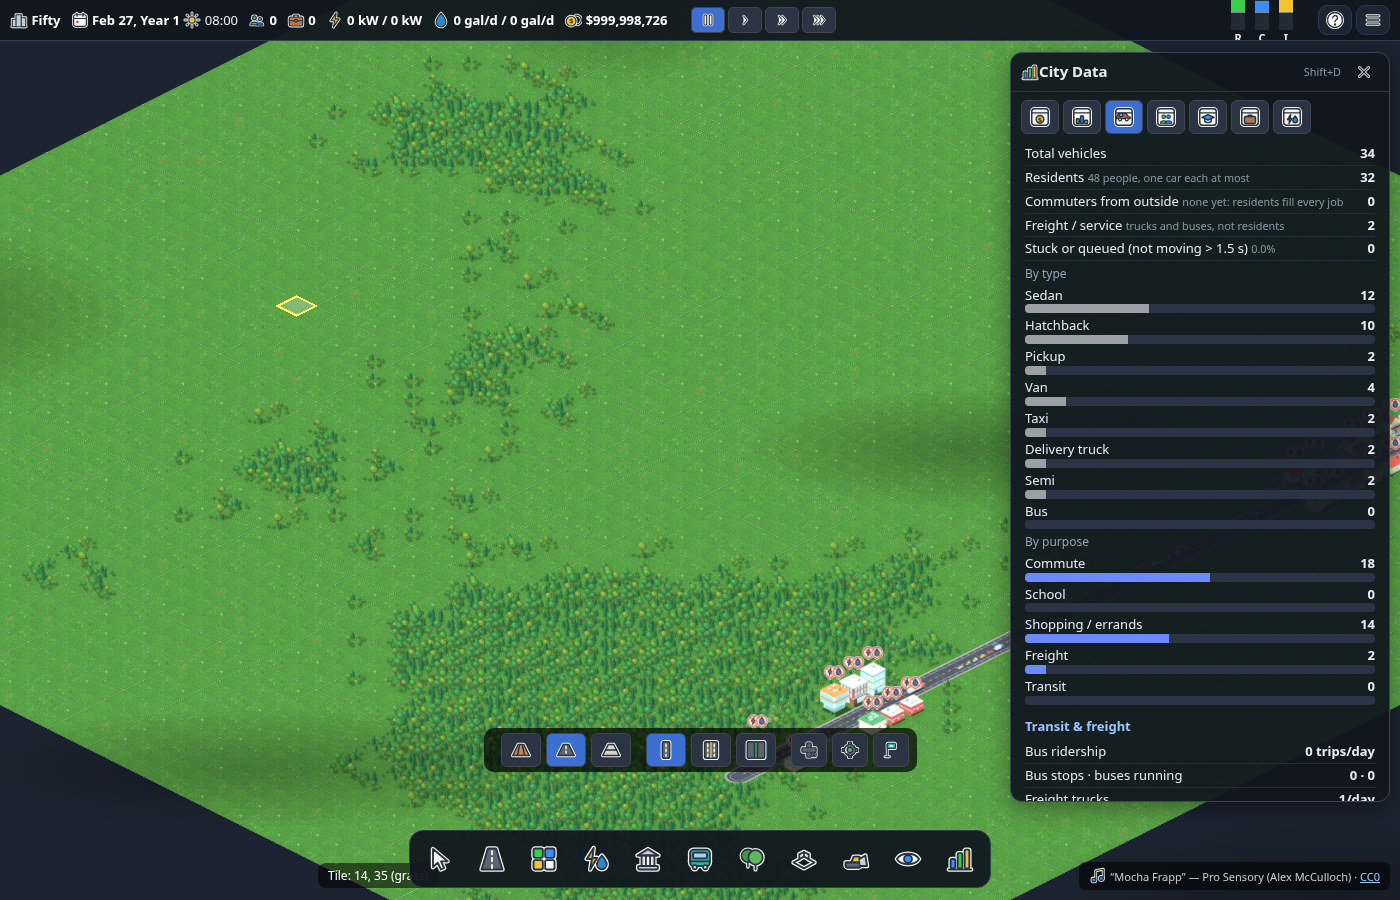
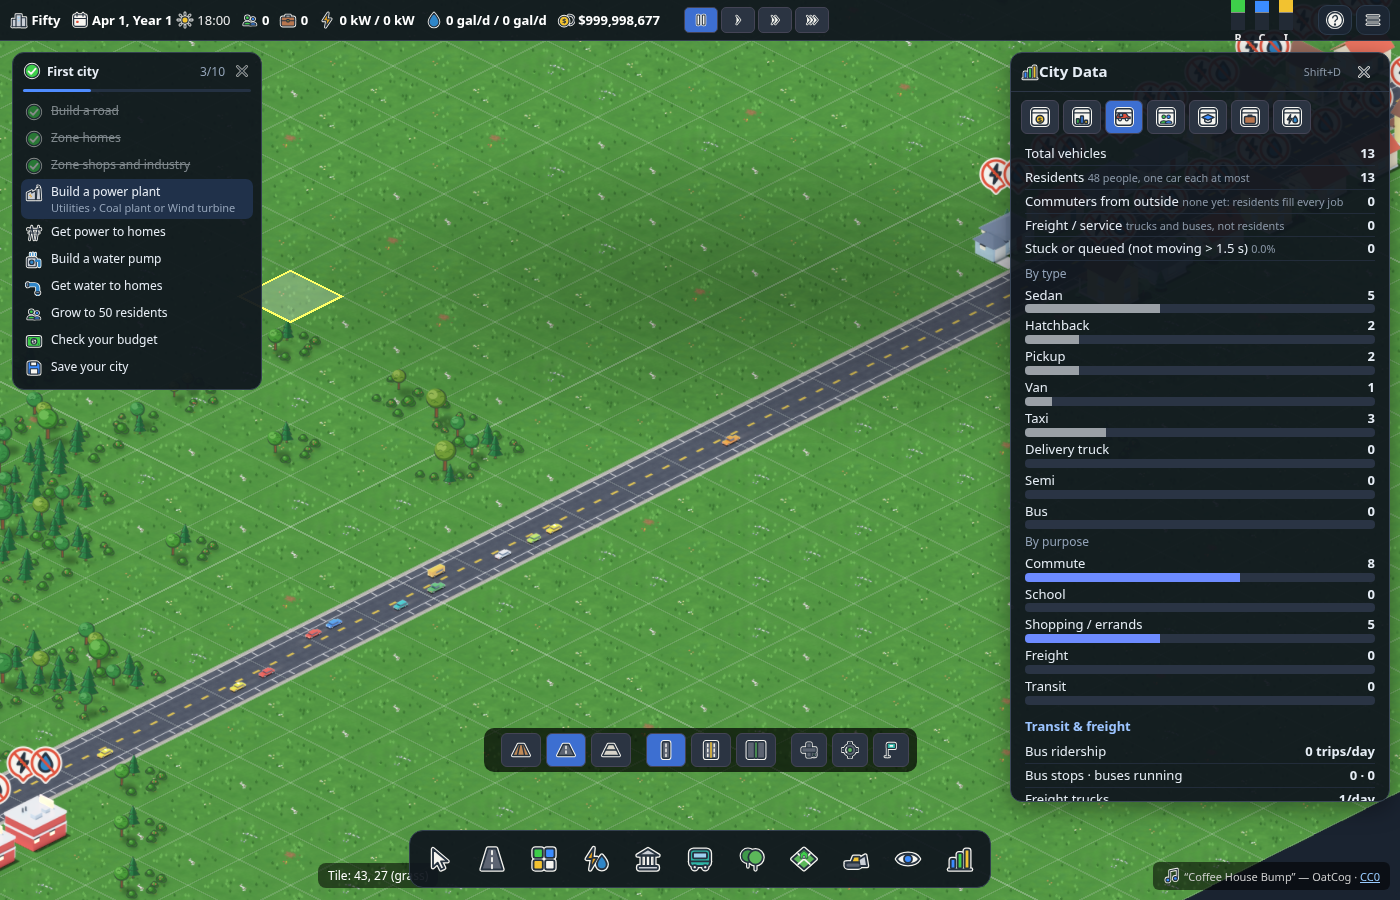
Longer day (15 game min per real second at 1x); traffic moves on the game clock

diff --git a/src/main.ts b/src/main.ts
@@ -333,7 +333,7 @@ function diamond(g: Graphics, i: number, j: number) {
     const st = ap.filter(x => axisOf(x[2]) === o.axis).map(x => x[2]);
     return { k: o.mode === 'yield' ? 'Y' : 'S', stops: st.length ? st : [ap.find(([a, b]) => !link(i, j, -a, -b))?.[2] ?? ap[0][2]], ...base }; };
   /** light colour for an approach axis; cyc game seconds play at 1/3 speed (45 s = the old 15 s loop); 1.5 s amber each way */
-  const lightState = (axis: number, ph: number, cyc = 45, g0 = 0.5) => { const T = cyc / 3, t = (clock + ph) % T, s0 = g0 * T, Y = 1.5;
+  const lightState = (axis: number, ph: number, cyc = 45, g0 = 0.5) => { const T = cyc / 3, t = (tclock + ph) % T, s0 = g0 * T, Y = 1.5;
     if (axis === 0) return t < s0 - Y ? 'green' : t < s0 ? 'yellow' : 'red'; return t < s0 ? 'red' : t < T - Y ? 'green' : 'yellow'; };
   const axisOf = (dir: string) => dir === 'SE' || dir === 'NW' ? 0 : 1;
   /** may a car arriving from `din` enter? stop: full stop (0.8 s) first; yield: only stops if there's cross traffic; uncontrolled: always (the junction reservation still prevents crashes) */
@@ -767,7 +767,7 @@ function diamond(g: Graphics, i: number, j: number) {
     syncLots(); drag = null; preview.clear(); census(); updateStats();
   };
   const tileAt = (sx: number, sy: number) => toTile((sx - world.position.x) / zoom, (sy - world.position.y) / zoom);
-  (window as any).__city = { pathOf: (f: any) => trips.pathOf(f), gfx: () => ({ res: app.renderer.resolution, cw: app.canvas.width, css: app.canvas.clientWidth }), stops: () => stops, toggleStop: (i: number, j: number) => toggleStop(i, j), busLoop: () => getBusLoop(), busWarn: () => (getBusLoop(), busWarn), maxCars: () => MAXCARS, resCap: (i: number, j: number) => resCap(i, j), buses: () => cars.filter(c => c.bus).length, carInfo: () => cars.map(c => ({ key: c.key, dir: c.dir, x: c.s.x, y: c.s.y, t: c.t, i: c.i, j: c.j, pi: c.pi, pj: c.pj, ri: c.ri, bf: c.bf, br: c.br, tex: String((c.s as any).texture?.label ?? ''), hg: !!c.hg, tg: !!c.tg, hgA: c.hg?.alpha ?? 0, hgVis: !!c.hg?.visible, hgBlend: c.hg?.blendMode ?? '', glowUnder: !!c.hg && c.hg.parent === glowL && world.getChildIndex(glowL) < world.getChildIndex(objL) })), holdCar: (n: number, sp: number) => { cars[n].sp = sp; }, busCars: () => cars.filter(c => c.bus).map(c => ({ ri: c.ri, t: c.t, dwell: c.dwell ?? 0, at: c.i * N + c.j, sprite: c.s instanceof Sprite, tex: (c.s as any).texture?.label ?? '' })), civFace: (c: any) => civFace(c), stopDir: () => [...stopDir], pickVehicle: (i: number, j: number) => pickVehicle(i, j), serialize: () => serialize(), applySave: (o: any) => applySave(o), N: () => N, city: () => city, zoom: () => zoom, setZoom: (z: number) => { zoom = clampZoom(z); }, tileToScreen: (i: number, j: number) => { const p = toScreen(i, j); return { x: p.x * zoom + world.position.x, y: p.y * zoom + world.position.y }; }, road, rtier, rstage, rfrom, rw, pk, growParking: () => growParking(), rerollPark: (c: Civ) => rerollPark(c), poll: () => poll, computeAll: () => { computeCoverage(); computePollution(); }, parkingIncome: () => parkingIncome(), trips: () => trips, cars: () => cars, spawnTrips: () => spawnTrips(), inspectAt: (x: number, y: number) => inspectAt(x, y), setCovView: (v: string) => setCovView(v), markTripsDirty: () => { tripsDirty = true; }, setRoadWidth: (w: number) => setRoadWidth(w), setRoadTier: (t: RoadTier) => setRoadTier(t), roadCost: (i: number, j: number) => roadCost(i, j), zone, bld, consT, zden, zface, facingOf: (i: number, j: number) => FACE[facingOf(i, j)][0], hasAccess: (i: number, j: number) => hasAccess(i, j), entranceOf: (i: number, j: number) => entranceOf(i, j), lotAt: (i: number, j: number) => lot[i][j], setZoneDensity: (d: number) => setZoneDen(d), setZoneFacing: (f: number) => setZoneFace(f), paint: (t: string, i0: number, j0: number, i1: number, j1: number) => { setTool(t); drag = { i: i0, j: j0, ci: i1, cj: j1 }; commit(); }, setConfirm: (f: (n: number) => boolean) => { confirmDown = f; }, refresh: () => { computeNear(); rebuildZ(); markAll(); }, ctrlAt: (i: number, j: number) => classify(i, j), failed: () => failed, carClock: () => clock, jamPenalty: () => jamPenalty, setCarsOnly: (v: boolean) => { carsOnly = v; }, spawnCar: (route: number[], key0?: string) => { const [pi, pj] = tileOf(route[0]), [i, j] = tileOf(route[1]), key = key0 ?? pickVehicle(pi, pj); const c: Car = { s: new Graphics(), key, pi, pj, i, j, t: 0, sp: 1.2 + Math.random() * 0.6, dir: '', ln: Math.random() < 0.5 ? 0 : 1, route, ri: 1 }; cars.push(c); return true; }, setIx: (i: number, j: number, o: any) => setIx(i, j, o), ixSet, decide: (cc: any, din: string, w: number, cb: boolean) => decide(cc, din, w, cb), lightState: (a: number, ph: number, cyc: number, g0: number) => lightState(a, ph, cyc, g0), openIx: (i: number, j: number) => { const p = toScreen(i, j); openIx(i, j, p.x * zoom + world.position.x, p.y * zoom + world.position.y); }, ctrlMap: ctrl, spriteFor: (i: number, j: number) => { const sd = seedOf(i, j), d = FACE[drawFace(i, j)][0], lt = lot[i][j]; return lt && lotReady(lt) ? lotKey(lt) : consT[i][j] ? facingName(`construction_1x1_${isTall(zone[i][j], consT[i][j]) ? 'tall_' : ''}stage${Math.min(3, 1 + Math.floor(consD[i][j] / CONS_DAYS))}`, sd, d) : bld[i][j] ? facingName(`bld_${zone[i][j]}_${bld[i][j]}`, sd, d) : ''; }, terrain, civs, plop, cov, crime, fireRisk, setTool, sim: () => sim, setSpeed: (n: number) => setSpeed(n), fastForward: (n: number) => { for (let k = 0; k < n; k++) tick(); }, centerOn: (i: number, j: number) => { const p = toScreen(i, j); camX = p.x; camY = p.y; } };
+  (window as any).__city = { pathOf: (f: any) => trips.pathOf(f), gfx: () => ({ res: app.renderer.resolution, cw: app.canvas.width, css: app.canvas.clientWidth }), stops: () => stops, toggleStop: (i: number, j: number) => toggleStop(i, j), busLoop: () => getBusLoop(), busWarn: () => (getBusLoop(), busWarn), maxCars: () => MAXCARS, resCap: (i: number, j: number) => resCap(i, j), buses: () => cars.filter(c => c.bus).length, carInfo: () => cars.map(c => ({ key: c.key, dir: c.dir, x: c.s.x, y: c.s.y, t: c.t, i: c.i, j: c.j, pi: c.pi, pj: c.pj, ri: c.ri, bf: c.bf, br: c.br, tex: String((c.s as any).texture?.label ?? ''), hg: !!c.hg, tg: !!c.tg, hgA: c.hg?.alpha ?? 0, hgVis: !!c.hg?.visible, hgBlend: c.hg?.blendMode ?? '', glowUnder: !!c.hg && c.hg.parent === glowL && world.getChildIndex(glowL) < world.getChildIndex(objL) })), holdCar: (n: number, sp: number) => { cars[n].sp = sp; }, busCars: () => cars.filter(c => c.bus).map(c => ({ ri: c.ri, t: c.t, dwell: c.dwell ?? 0, at: c.i * N + c.j, sprite: c.s instanceof Sprite, tex: (c.s as any).texture?.label ?? '' })), civFace: (c: any) => civFace(c), stopDir: () => [...stopDir], pickVehicle: (i: number, j: number) => pickVehicle(i, j), serialize: () => serialize(), applySave: (o: any) => applySave(o), N: () => N, city: () => city, zoom: () => zoom, setZoom: (z: number) => { zoom = clampZoom(z); }, tileToScreen: (i: number, j: number) => { const p = toScreen(i, j); return { x: p.x * zoom + world.position.x, y: p.y * zoom + world.position.y }; }, road, rtier, rstage, rfrom, rw, pk, growParking: () => growParking(), rerollPark: (c: Civ) => rerollPark(c), poll: () => poll, computeAll: () => { computeCoverage(); computePollution(); }, parkingIncome: () => parkingIncome(), trips: () => trips, cars: () => cars, spawnTrips: () => spawnTrips(), inspectAt: (x: number, y: number) => inspectAt(x, y), setCovView: (v: string) => setCovView(v), markTripsDirty: () => { tripsDirty = true; }, setRoadWidth: (w: number) => setRoadWidth(w), setRoadTier: (t: RoadTier) => setRoadTier(t), roadCost: (i: number, j: number) => roadCost(i, j), zone, bld, consT, zden, zface, facingOf: (i: number, j: number) => FACE[facingOf(i, j)][0], hasAccess: (i: number, j: number) => hasAccess(i, j), entranceOf: (i: number, j: number) => entranceOf(i, j), lotAt: (i: number, j: number) => lot[i][j], setZoneDensity: (d: number) => setZoneDen(d), setZoneFacing: (f: number) => setZoneFace(f), paint: (t: string, i0: number, j0: number, i1: number, j1: number) => { setTool(t); drag = { i: i0, j: j0, ci: i1, cj: j1 }; commit(); }, setConfirm: (f: (n: number) => boolean) => { confirmDown = f; }, refresh: () => { computeNear(); rebuildZ(); markAll(); }, ctrlAt: (i: number, j: number) => classify(i, j), failed: () => failed, carClock: () => tclock, jamPenalty: () => jamPenalty, setCarsOnly: (v: boolean) => { carsOnly = v; }, spawnCar: (route: number[], key0?: string) => { const [pi, pj] = tileOf(route[0]), [i, j] = tileOf(route[1]), key = key0 ?? pickVehicle(pi, pj); const c: Car = { s: new Graphics(), key, pi, pj, i, j, t: 0, sp: 1.2 + Math.random() * 0.6, dir: '', ln: Math.random() < 0.5 ? 0 : 1, route, ri: 1 }; cars.push(c); return true; }, setIx: (i: number, j: number, o: any) => setIx(i, j, o), ixSet, decide: (cc: any, din: string, w: number, cb: boolean) => decide(cc, din, w, cb), lightState: (a: number, ph: number, cyc: number, g0: number) => lightState(a, ph, cyc, g0), openIx: (i: number, j: number) => { const p = toScreen(i, j); openIx(i, j, p.x * zoom + world.position.x, p.y * zoom + world.position.y); }, ctrlMap: ctrl, spriteFor: (i: number, j: number) => { const sd = seedOf(i, j), d = FACE[drawFace(i, j)][0], lt = lot[i][j]; return lt && lotReady(lt) ? lotKey(lt) : consT[i][j] ? facingName(`construction_1x1_${isTall(zone[i][j], consT[i][j]) ? 'tall_' : ''}stage${Math.min(3, 1 + Math.floor(consD[i][j] / CONS_DAYS))}`, sd, d) : bld[i][j] ? facingName(`bld_${zone[i][j]}_${bld[i][j]}`, sd, d) : ''; }, terrain, civs, plop, cov, crime, fireRisk, setTool, sim: () => sim, setSpeed: (n: number) => setSpeed(n), fastForward: (n: number) => { for (let k = 0; k < n; k++) tick(); }, centerOn: (i: number, j: number) => { const p = toScreen(i, j); camX = p.x; camY = p.y; } };
 
   // camera
   const center = toScreen(N / 2, N / 2);
@@ -943,9 +943,12 @@ function diamond(g: Graphics, i: number, j: number) {
     stats.querySelector('#rci')!.innerHTML = rbar('R', sim.dR, '#3ecf4a') + rbar('C', sim.dC, '#3b8cff') + rbar('I', sim.dI, '#f2c230');
   };
   let timer = 0;
+  /** one game hour = HOUR_MS of real time at 1× (1 s per 15 game minutes, a 96 s day); 2× and 3× divide it. Traffic runs on the same clock:
+   *  TRAFFIC_X traffic-seconds per real second at 1×, times the game speed, so a cross-town drive takes about a game hour at any speed. */
+  const HOUR_MS = 4000, TRAFFIC_X = 4;
   const setSpeed = (n: number) => {
     sim.speed = n; clearInterval(timer);
-    if (n > 0) timer = window.setInterval(tick, 1000 / n);
+    if (n > 0) timer = window.setInterval(tick, HOUR_MS / n);
     stats.querySelectorAll('#speed button').forEach(b => b.classList.toggle('on', +(b as HTMLElement).dataset.s! === n));
   };
   let lastSpeed = 1;
@@ -1472,7 +1475,7 @@ body.plotting #uBar,body.plotting #uTray,body.plotting #roadTiers,body.plotting 
     return { road: any((i, j) => road[i][j]), R: any((i, j) => zone[i][j] === 'R'), CI: any((i, j) => zone[i][j] === 'C') && any((i, j) => zone[i][j] === 'I'),
       plant: civs.some(c => SERV[c.type]?.kind === 'power'), poweredR: any((i, j) => zone[i][j] === 'R' && powered[i][j]), water: civs.some(c => SERV[c.type]?.kind === 'water'),
       wateredR: any((i, j) => zone[i][j] === 'R' && watered[i][j]), pop: sim.pop, budget: tutBudget, saved: tutSaved }; });
-  let clock = 0, windF = -1, chunkErr = false;
+  let clock = 0, tclock = 0, windF = -1, chunkErr = false;
   let night = 0;
   function applyNight(n: number) { // function declaration: hoisted, because setFxVisibility can call it during init (day/night off) // objects are tinted to match the shading (per visible chunk, lazily); lights fade in additively
     if (Math.abs(n - lastNightTint) < 0.01) return; lastNightTint = n;
@@ -1485,7 +1488,7 @@ body.plotting #uBar,body.plotting #uTray,body.plotting #roadTiers,body.plotting 
   app.ticker.add(t => {
     const dt = t.deltaMS / 1000; clock += dt;
     // day/night: one full cycle every 24 game-days, smoothed between ticks
-    const frac = sim.speed ? Math.min(1, (performance.now() - lastTick) * sim.speed / 1000) : 0;
+    const frac = sim.speed ? Math.min(1, (performance.now() - lastTick) * sim.speed / HOUR_MS) : 0;
     const hour = (((sim.day + frac) % 24) + 24) % 24;
     night = fx.daynight ? Math.max(0, Math.min(1, Math.cos(2 * Math.PI * hour / 24) * 1.3 + 0.15)) : 0;
     const tod = document.getElementById('tod'); if (tod) tod.innerHTML = (night > 0.5 ? '<img class="ic" src="./assets/ui/icons2/svg/stat_time_night.svg" alt=""> ' : '<img class="ic" src="./assets/ui/icons2/svg/stat_time_day.svg" alt=""> ') + String(Math.floor(hour)).padStart(2, '0') + ':00';
@@ -1520,6 +1523,8 @@ body.plotting #uBar,body.plotting #uTray,body.plotting #roadTiers,body.plotting 
       if (fx.cars && pending.length) drainPending();
     }
     for (const ch of chunks) if (ch.vis) for (const t of ch.trucks) { const w = t.__truck, f = Math.sin(clock * 1.3 + w.ph), d = Math.cos(clock * 1.3 + w.ph) >= 0 ? 0 : 1; t.x = w.x + f * w.vx; t.y = w.y + f * w.vy; if (d !== w.d) { w.d = d; if (t instanceof Sprite) { const tx = artTex(w.keys[d]); if (tx) t.texture = tx; } else t.scale.x = d ? -1 : 1; } }
+    const tdt = dt * TRAFFIC_X * Math.max(1, sim.speed), nSub = Math.min(8, Math.max(1, Math.ceil(tdt / 0.06)));
+    for (let sub = 0; sub < nSub; sub++) { const dt = tdt / nSub; tclock += dt; // substeps keep spacing / junction checks exact at high speed
     if (sim.speed || carsOnly) runBuses(); // before the lane index is built so new buses are in it
     const lane = new Map<number, number[]>(), segK = (pi: number, pj: number, i: number, j: number, ln = 0) => (((pi * N + pj) * 8 + (i - pi + 1) * 2 + (j - pj + 1 >> 1)) * 4 + (rw[i][j] ? Math.min(ln, ROAD_WIDTHS[wKind(rw[i][j])].lanesPerDir - 1) : 0)) | 0; // multi-lane roads: one queue per lane
     const laneC = new Map<number, Car[]>();
@@ -1605,6 +1610,7 @@ body.plotting #uBar,body.plotting #uTray,body.plotting #roadTiers,body.plotting 
         for (const [gl, a] of [[c.hg, 1], [c.tg, 0.9]] as [Sprite | undefined, number][]) if (gl) { const o = (gl as any).__off ?? [0, 0]; gl.position.set(x + o[0] / 2, y + o[1] / 2); gl.alpha = Math.min(1, night * a * 1.3); gl.visible = vis && night > 0.02; } // manifest offsets are 2x px
       }
       c.s.visible = vis;
+    }
     }
   });
   let frames = 0, cpuAcc = 0, tF = 0; app.ticker.add(() => { frames++; tF = performance.now(); }, undefined, 1000); // highest priority: start of frame work

diff --git a/CHANGELOG.md b/CHANGELOG.md
@@ -1,5 +1,10 @@
 # Changelog
 
+## Longer days, traffic on the game clock
+- A game day is 4× longer: 1 s of real time = 15 game minutes at 1× (96 s per day), 48 s at 2×, 32 s at 3×. Days, months and growth all run on this clock.
+- Cars now move on the game clock: they're 4× faster at 1× and speed up again at 2× and 3×. Small steps keep spacing, junctions and roundabouts exact. A cross-town drive takes about a game hour, so evening commutes are over by the small hours instead of lingering all night.
+- Traffic lights, jam give-up times and bus stops run on the same traffic clock, so traffic is just as hard as before relative to the cars.
+- tests/vehicle-count.cjs checks nights are empty; avenue-taper samples a car at the old on-screen speed.
 ## Sound effects
 - Building now makes small sounds: a gravelly thud for roads, a soft two-note chime for zoning, a knock and chime when a building, park, plot or traffic circle goes down, a quick tick for power lines, pipes and bus stops, a crunch for the bulldozer, and a low "nope" buzz when you can't afford something or a spot isn't allowed.
 - All sounds are made live by the game's own code (no sound files, nothing borrowed from other games). They're short and quiet so they sit under the music.
